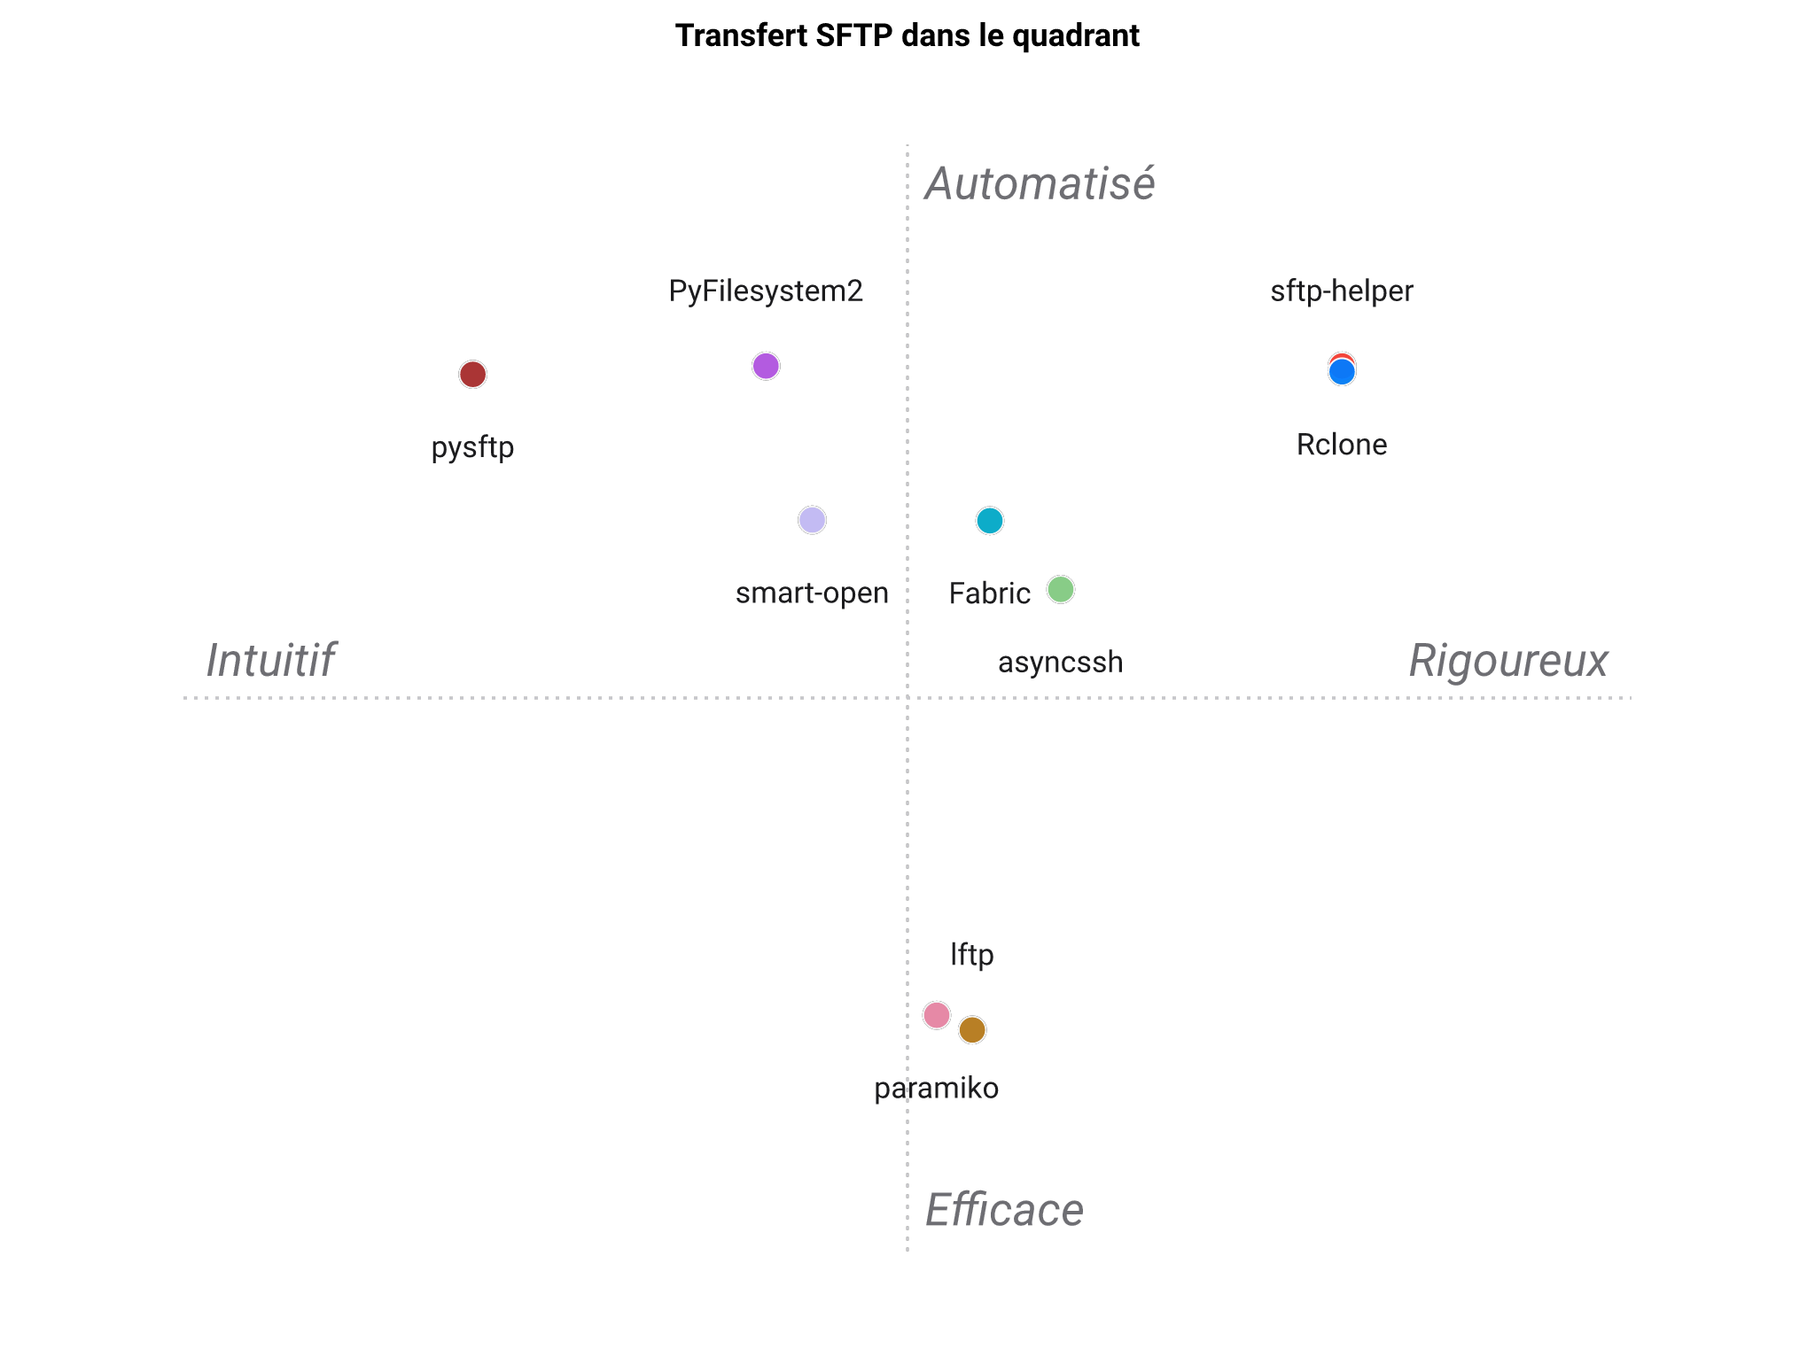
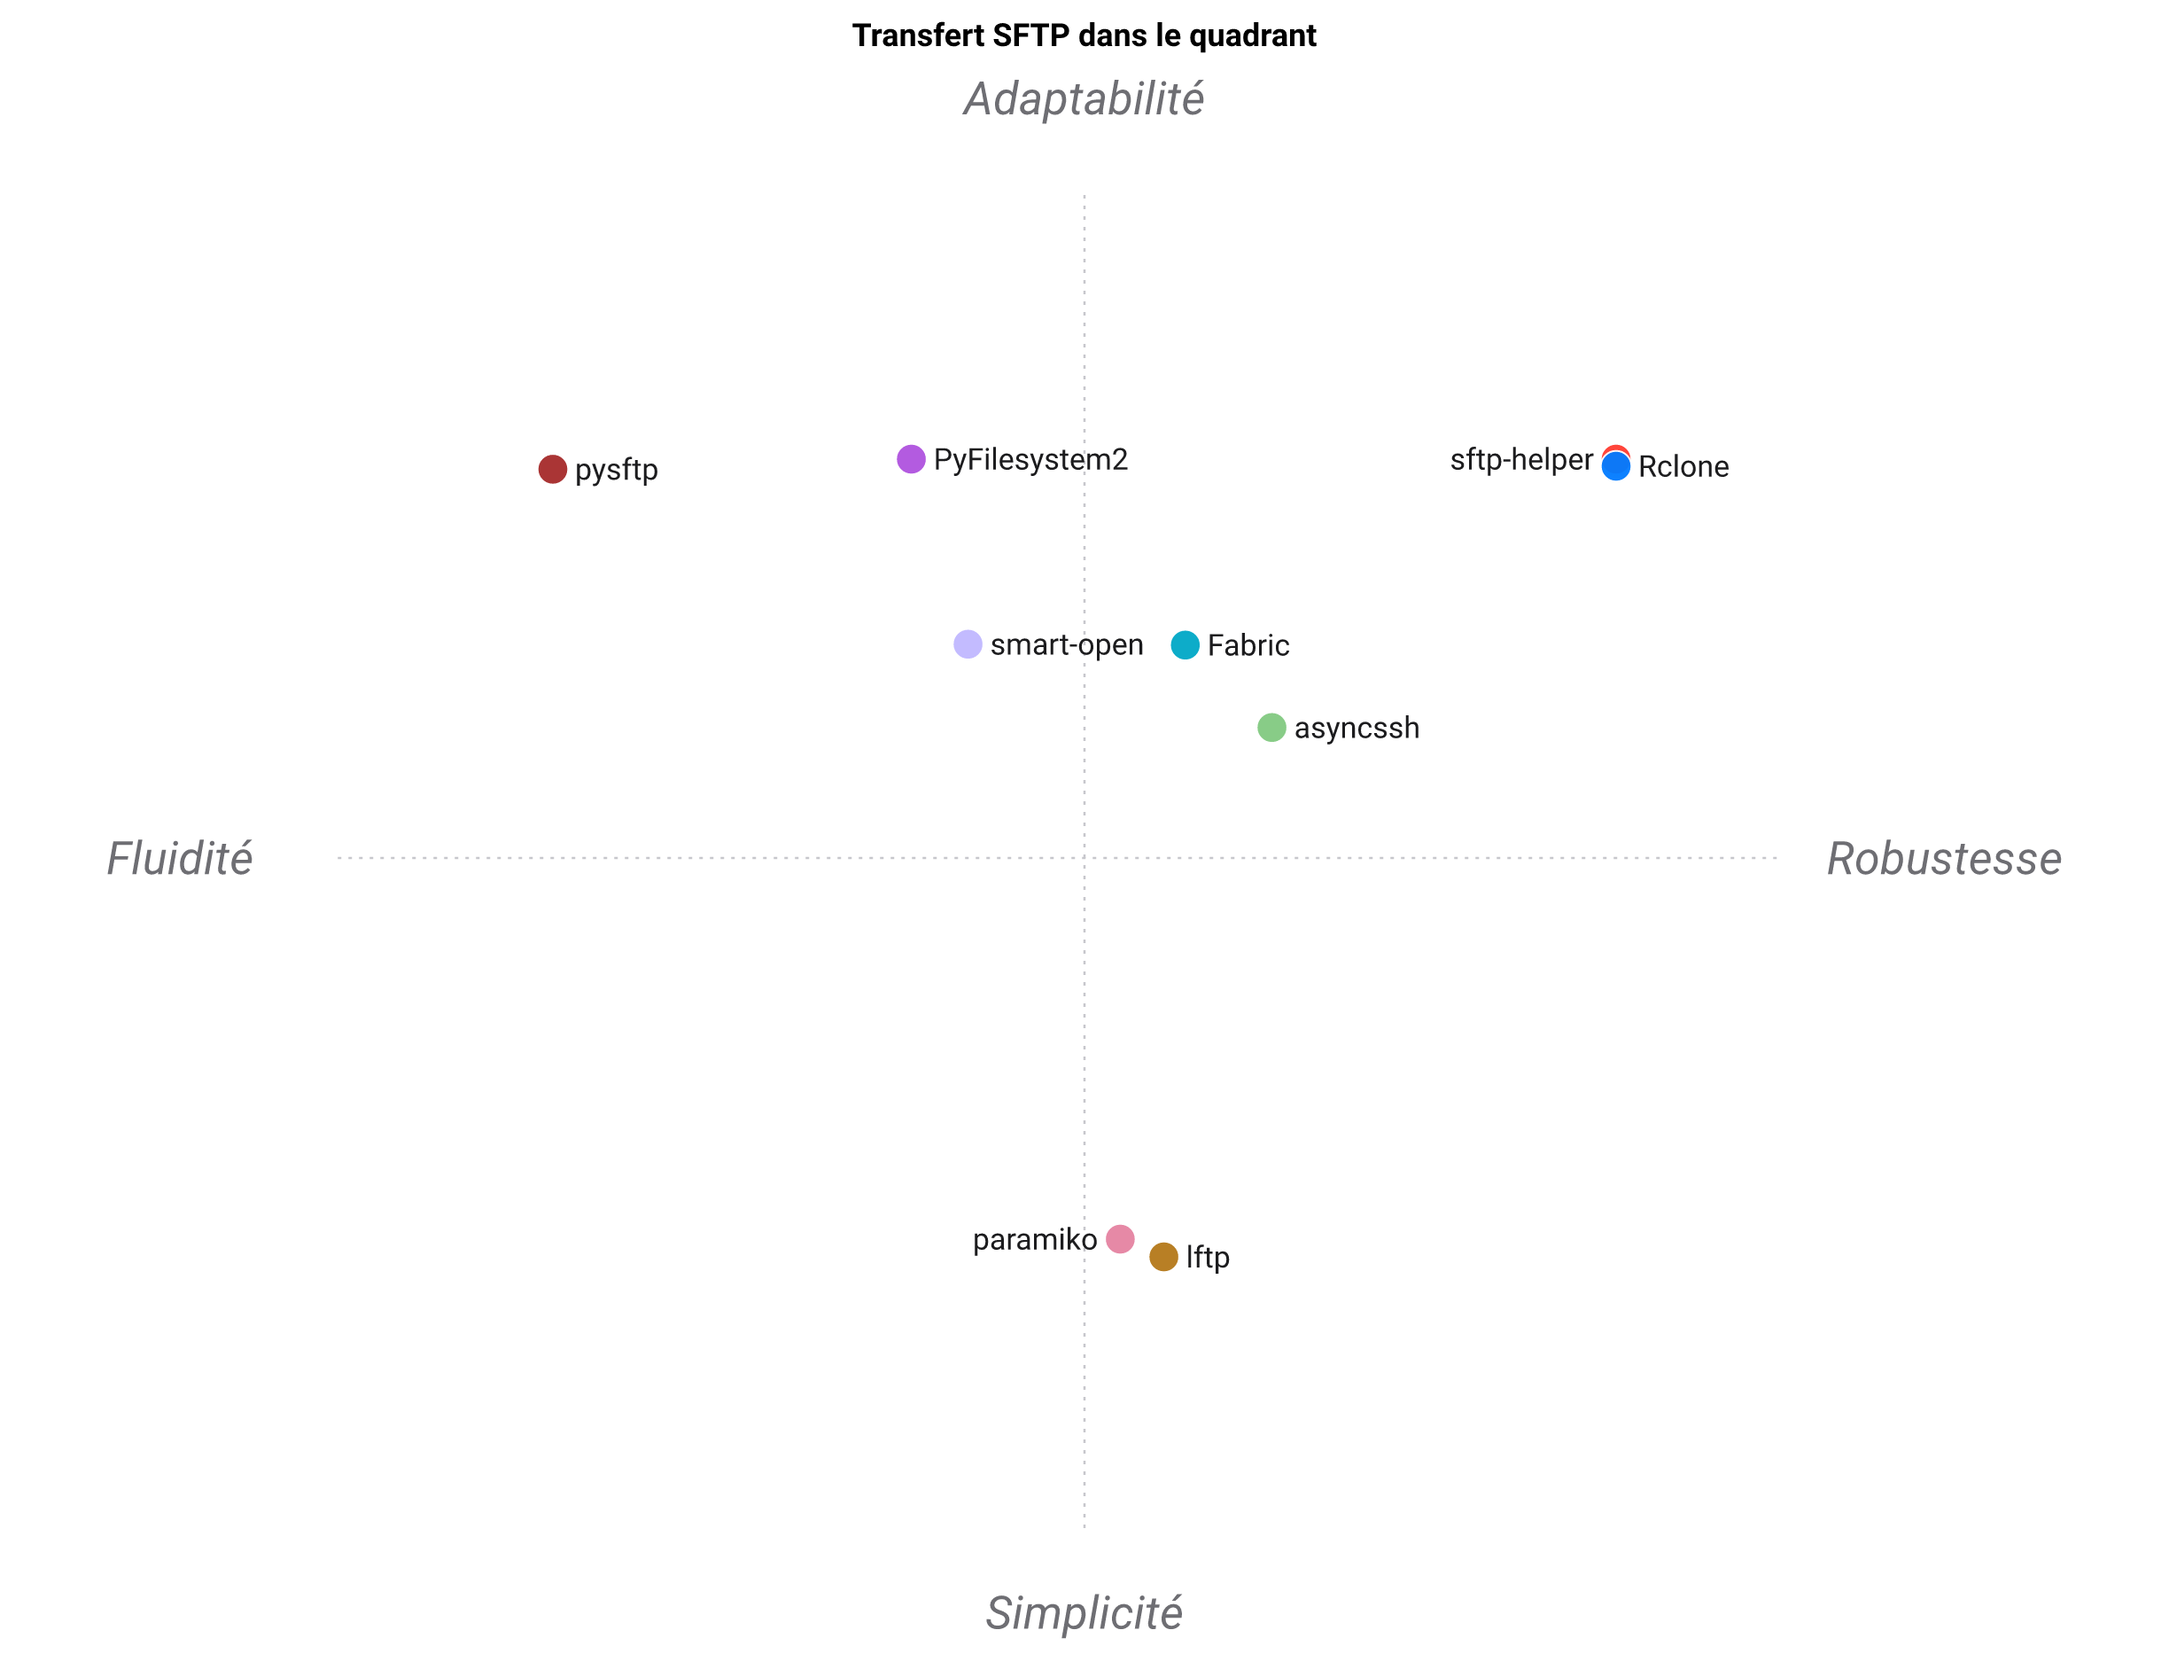
docs: regenerate LANDSCAPE/PAYSAGE positioning figures
Rerun via gen_landscape.py against the current standpoint (Vega retired,
SVG+resvg_py rasterisation pipeline).

diff --git a/PAYSAGE.md b/PAYSAGE.md
@@ -38,7 +38,7 @@ Représentation 2D du tableau ci-dessus.
 
 ![Carte de positionnement](https://raw.githubusercontent.com/warith-harchaoui/sftp-helper/main/assets/paysage.png)
 
-La carte est un résumé en 2D des 7 critères : à lire comme une forme, pas comme un classement. « sftp-helper » se situe dans le coin en haut à droite. Les axes se lisent **Horizontal — Intuitif ↔ Rigoureux** et **Vertical — Efficace ↔ Automatisé**.
+La carte est un résumé en 2D des 7 critères : à lire comme une forme, pas comme un classement. « sftp-helper » se situe dans le coin en haut à droite. Les axes se lisent **Horizontal — Fluidité ↔ Robustesse** et **Vertical — Simplicité ↔ Adaptabilité**.
 <!-- FIGURE:END -->
 
 ## Positionnement

diff --git a/LANDSCAPE.md b/LANDSCAPE.md
@@ -36,7 +36,7 @@ local-first mode to score here.
 
 ![Positioning map](https://raw.githubusercontent.com/warith-harchaoui/sftp-helper/main/assets/landscape.png)
 
-The map is a 2-D summary of the seven criteria, so read it as a shape, not a scoreboard. `sftp-helper` is at the top-right corner. The axes read **Horizontal — User-friendly ↔ Secure** and **Vertical — Efficient ↔ Intuitive**.
+The map is a 2-D summary of the seven criteria, so read it as a shape, not a scoreboard. `sftp-helper` is at the top-right corner. The axes read **Horizontal — Ingenuity ↔ Robustness** and **Vertical — Simplicity ↔ Versatility**.
 <!-- FIGURE:END -->
 
 ## Positioning
